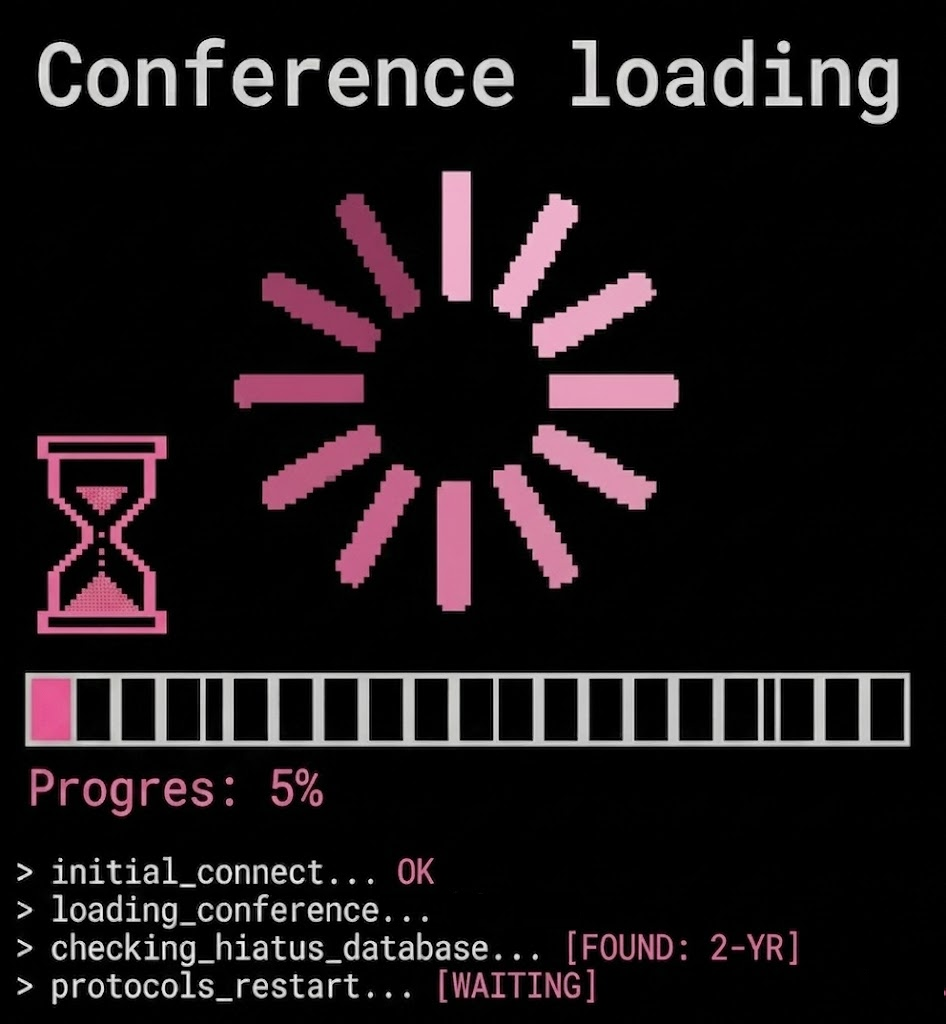
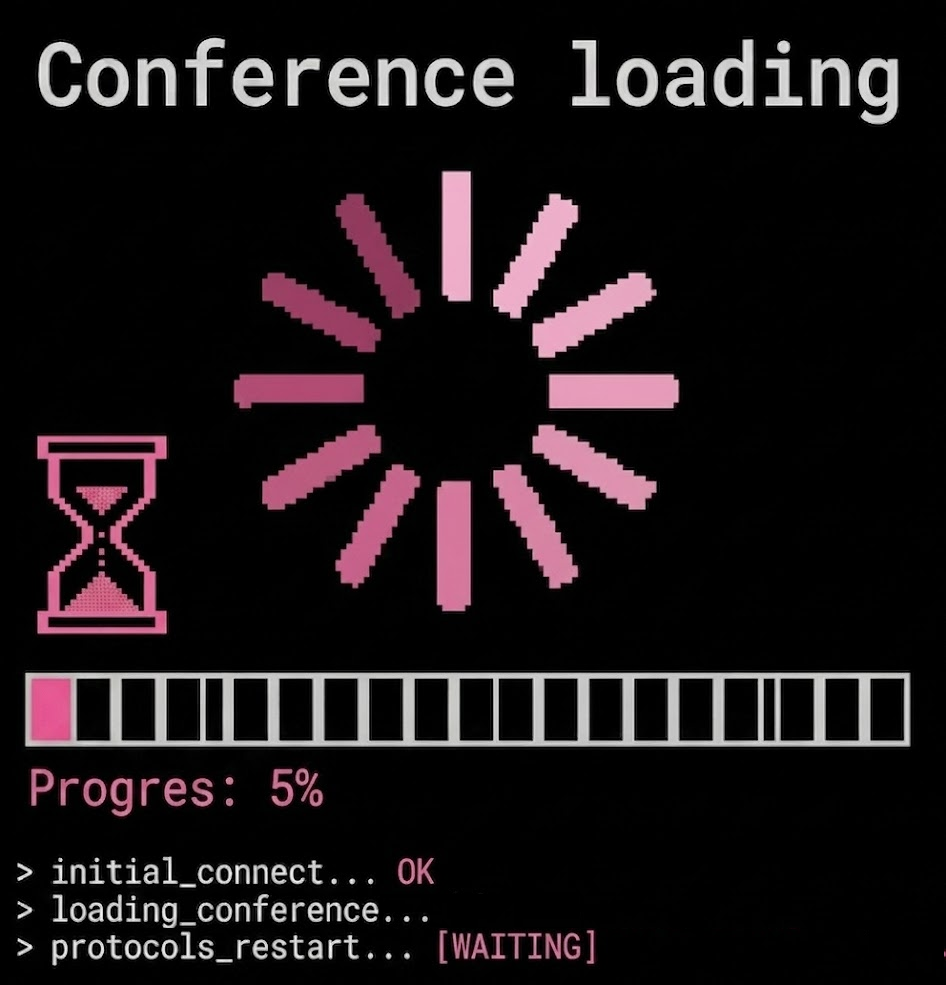
zmiany po uwagach Pawla

diff --git a/blog/soap-rocznica/index.md b/blog/soap-rocznica/index.md
@@ -30,7 +30,7 @@ przemyśleń. soap! wyróżniała też niezwykle przyjazna atmosfera tworzona pr
 organizatorów i uczestników.
 
 W tym miejscu chciałem podziękować Gosi za rozmowę, podczas której streściła mi
-historię soap! Wiele zdań w tym artykule to wierne cytaty lub parafraza słów.
+historię soap! Wiele zdań w tym artykule to wierne cytaty lub parafraza jej słów.
 Stwierdzenia były tak celne, że po prostu nie mogłem ich nie wykorzystać. Swoją
 drogą, trudno się temu dziwić, skoro Gosia i wszystkie osoby powiązane z soap!
 to wytrawni specjaliści od komunikacji, a od nich spodziewać się można trafnych
@@ -74,7 +74,7 @@ i wyzwań technicznych. Razem doszli do wniosku:
 > Niemożliwe, żebyśmy jako jedyni spotkalismy sie z tymi problemami, ktoś już
 > wcześniej musiał to rozgryźć.
 
-Z tego powodu właśnie pojechali w trójkę do Londynu na trzydniową konferencję
+Z tego powodu właśnie pojechali we trójkę do Londynu na trzydniową konferencję
 [Congility](https://www.ditawriter.com/interview-with-noz-urbina-about-the-upcoming-congility-conference/),
 na której prelegentem był [Noz Urbina](https://www.linkedin.com/in/nozurbina/).
 
@@ -158,9 +158,9 @@ opornego projektora.
 Noz Urbina, którego organizatorzy słuchali podczas Congility, na soap! wystąpił
 jako prelegent.
 
-Gosia podzieliła się taką myślą, że organizując takie spotkanie można poznać
+Gosia podzieliła się myślą, że organizując takie spotkanie można poznać
 lepiej sobie i innych. Z pewnością nie była to bułka z masłem. W takich
-wymagających momentach można zobaczyć hart ducha, pomysłowość i zdolność do
+wymagających momentach można zobaczyć hart ducha, pomysłowość i gotowość do
 poświęceń.
 
 ![](images/converstations.jpg)
@@ -177,7 +177,7 @@ Społeczność przyjęła soap! z entuzjazmem i pewnym zdziwieniem:
 
 ### Listopadowe spotkanie
 
-Widać było spory apetyt na dzielenie się wiedzą, skoro w jeszcze w listopadzie
+Widać było spory apetyt na dzielenie się wiedzą, skoro jeszcze w listopadzie
 tamtego roku doszło do spotkania z całkiem rozbudowaną agendą w Massolit Books
 and Cafe w Krakowie.
 
@@ -190,9 +190,9 @@ Oryginalny podpis z ówczesnej strony soap!:
 ### Ważne decyzje
 
 Planowanie po pracy i czas wolny wypełniony organizacją konferencji to duże
-poświęcenie. Paulina i Paweł czuli się tym zmeczeni i postanowili zrezygnować.
+poświęcenie. Paulina i Paweł czuli się tym zmęczeni i postanowili zrezygnować.
 
-Gosia wybrała kontynuować tę inicjatywę.
+Gosia kontynuowała tę inicjatywę.
 
 ### Zespół od czasu drugiej edycji
 
@@ -493,7 +493,7 @@ Podczas tej konferencji poduszka trafiła do
 
 Soapuszka zwiedziła kawał świata, żyła intensywnie i na krawędzi, co przypłaciła
 tym, że popruła się i rozpadła na kawałki. Ale było warto! Lepiej spalać się
-szybko i żyć w pełnym blasku i glorii!
+szybko i żyć w pełnym blasku i chwale!
 
 ## Fakty i liczby
 
@@ -539,6 +539,8 @@ Facebooku liczy 1300 osób.
 Stało się jasne, że soap! raz w roku to było za mało, a apetyt na wiedzę i
 spotkania stale rósł. Zaczęło się rozkręcanie meetupów o nazwie Meet Content. W
 Brnie w Czechach odbyły się trzy meetupy.
+
+Z tego co udało nam się ustalić, w Hiszpanii odbył się Meet Content Iberia. 
 
 Meet Content nadal działa we Wrocławiu. Oddział Meet Content krakowski przestał
 być aktywny.